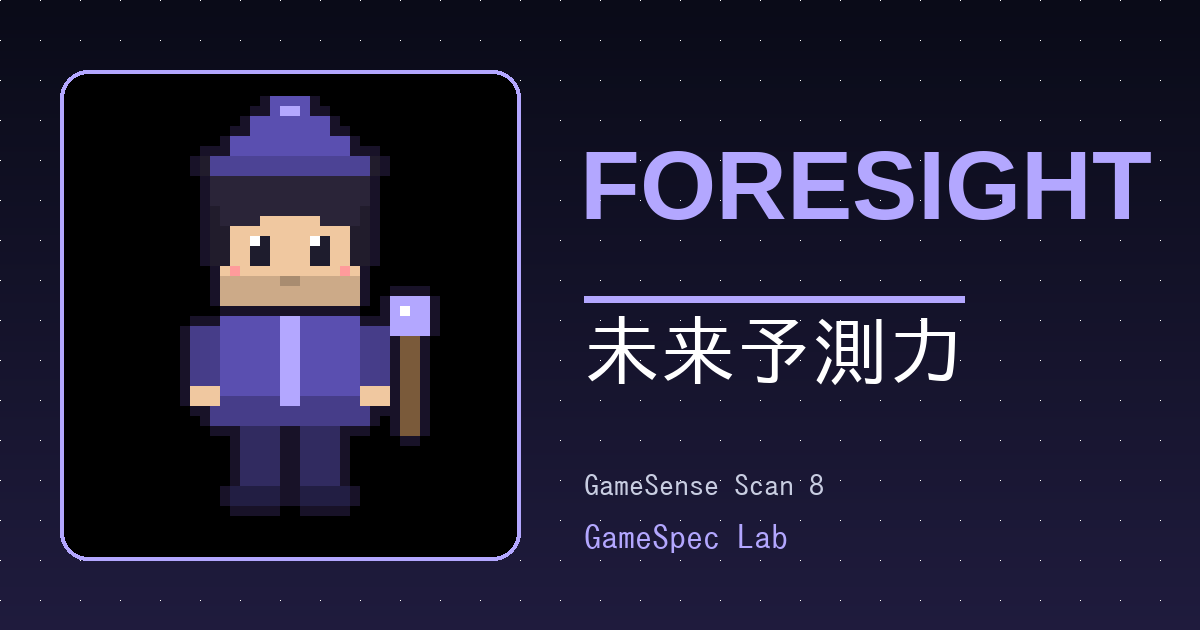
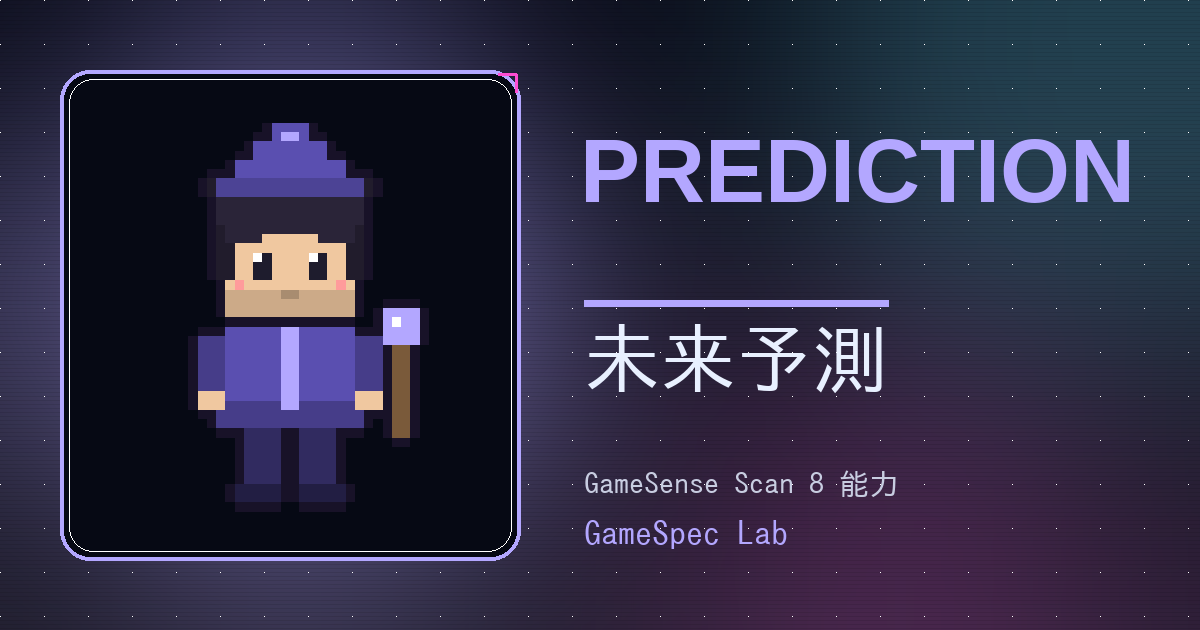
タイプ個別OGP24枚を新ネオンスタイルに刷新（シェアのリンク先プレビュー）
- gamer-mbti-*(16) と sense-*-guide(8) のOGPを、記事OGPと同じネオングロー＋スキャンライン＋二重枠＋タイプ色スタイルで再生成
- 既存キャラPNGをそのまま使用、タイトル・アクセント色はHTMLから抽出（tools/build_type_ogp.py）
- OGP画像はクローラがURL取得するためHTML/キャッシュバスター変更なし

Claude-Session: https://claude.ai/code/session_015EHdJH3M1W72Rtdni8ff5H

diff --git a/tools/build_type_ogp.py b/tools/build_type_ogp.py
@@ -1,0 +1,169 @@
+#!/usr/bin/env python3
+# -*- coding: utf-8 -*-
+"""タイプ個別ページのOGPカード24枚を新スタイルで再生成.
+
+MBTI 16タイプ(gamer-mbti-*.html) と GameSense 8能力(sense-*-guide.html) の
+既存キャラPNG(assets/types/*.png)を使い、記事OGPと同じネオンスタイル
+(グロー＋スキャンライン＋二重枠＋タイプ色)で 1200x630 のOGPを生成する。
+タイトル・アクセント色は各HTMLから抽出。
+
+  python3 tools/build_type_ogp.py
+出力: assets/types/<slug>-ogp.png
+"""
+import glob
+import os
+import re
+
+from PIL import Image, ImageChops, ImageDraw, ImageFilter, ImageFont
+
+ROOT = os.path.dirname(os.path.dirname(os.path.abspath(__file__)))
+TYPES = os.path.join(ROOT, "assets", "types")
+JP_FONT = "/etc/alternatives/fonts-japanese-gothic.ttf"
+LATIN_FONT = "/usr/share/fonts/truetype/liberation/LiberationSans-Bold.ttf"
+
+CYAN = (114, 242, 255)
+PINK = (255, 77, 210)
+
+# GameSense 8能力（slug -> EN, JP, アクセント）
+SENSE = [
+    ("sense-awareness-guide", "AWARENESS", "状況認識", (127, 224, 240)),
+    ("sense-prediction-guide", "PREDICTION", "未来予測", (179, 167, 255)),
+    ("sense-pattern-guide", "PATTERN", "パターン認識", (127, 224, 196)),
+    ("sense-spatial-guide", "SPATIAL", "空間把握", (155, 192, 255)),
+    ("sense-speed-guide", "SPEED", "判断速度", (255, 210, 74)),
+    ("sense-resource-guide", "RESOURCE", "リソース管理", (255, 224, 122)),
+    ("sense-mindgame-guide", "MINDGAME", "心理戦", (255, 155, 214)),
+    ("sense-adaptation-guide", "ADAPTATION", "学習適応力", (167, 232, 176)),
+]
+
+
+def font(path, size):
+    try:
+        return ImageFont.truetype(path, size)
+    except Exception:
+        return ImageFont.load_default()
+
+
+def glow_layer(size, blobs):
+    layer = Image.new("RGB", size, (0, 0, 0))
+    d = ImageDraw.Draw(layer)
+    for cx, cy, r, color, strength in blobs:
+        col = tuple(int(c * strength) for c in color)
+        d.ellipse([cx - r, cy - r, cx + r, cy + r], fill=col)
+    return layer.filter(ImageFilter.GaussianBlur(115))
+
+
+def parse_mbti():
+    records = []
+    for path in sorted(glob.glob(os.path.join(ROOT, "gamer-mbti-????.html"))):
+        code = os.path.basename(path)[len("gamer-mbti-"):-len(".html")].upper()
+        if len(code) != 4:
+            continue
+        html = open(path, encoding="utf-8").read()
+        m_ac = re.search(r"--type-accent:\s*([0-9]+)\s+([0-9]+)\s+([0-9]+)", html)
+        m_h1 = re.search(r"<h1><span>([^<]+)</span>", html)
+        accent = tuple(int(m_ac.group(i)) for i in (1, 2, 3)) if m_ac else CYAN
+        title = m_h1.group(1) if m_h1 else code
+        jp = title[len(code):].strip() if title.upper().startswith(code) else title
+        records.append({
+            "slug": f"gamer-mbti-{code.lower()}",
+            "char": os.path.join(TYPES, f"{code.lower()}.png"),
+            "en": code,
+            "jp": jp,
+            "group": "ゲーマーMBTI 16タイプ",
+            "accent": accent,
+        })
+    return records
+
+
+def build(rec):
+    Wd, Hd = 1200, 630
+    base = (8, 10, 22)
+    ac = rec["accent"]
+    img = Image.new("RGB", (Wd, Hd), base)
+    for y in range(Hd):
+        f = y / Hd
+        img.paste(tuple(int(base[i] + (ac[i] * 0.16 - base[i]) * f) for i in range(3)),
+                  (0, y, Wd, y + 1))
+    img = ImageChops.add(img, glow_layer((Wd, Hd), [
+        (300, 300, 260, ac, 0.52),
+        (1040, 110, 250, CYAN, 0.22),
+        (900, 560, 240, PINK, 0.18),
+    ]))
+    # スキャンライン
+    scan = Image.new("RGBA", (Wd, Hd), (0, 0, 0, 0))
+    sd = ImageDraw.Draw(scan)
+    for y in range(0, Hd, 4):
+        sd.line([(0, y), (Wd, y)], fill=(0, 0, 0, 24))
+    img = Image.alpha_composite(img.convert("RGBA"), scan).convert("RGB")
+    d = ImageDraw.Draw(img)
+    # ドット格子
+    for gy in range(0, Hd, 44):
+        for gx in range(0, Wd, 44):
+            d.point((gx, gy), fill=(255, 255, 255))
+    # 左キャラパネル（二重枠＋ピンクのコーナー）
+    px1, py1, px2, py2 = 60, 70, 520, 560
+    d.rounded_rectangle([px1, py1, px2, py2], radius=30, fill=(6, 9, 20), outline=ac, width=4)
+    d.rounded_rectangle([px1 + 9, py1 + 9, px2 - 9, py2 - 9], radius=24,
+                        outline=(255, 255, 255), width=1)
+    d.line([(px2 - 22, py1 + 4), (px2 - 4, py1 + 4)], fill=PINK, width=3)
+    d.line([(px2 - 4, py1 + 4), (px2 - 4, py1 + 22)], fill=PINK, width=3)
+    # キャラ配置（下寄せ）
+    if os.path.exists(rec["char"]):
+        char = Image.open(rec["char"]).convert("RGBA")
+        maxw, maxh = px2 - px1 - 90, py2 - py1 - 70
+        sc = min(maxw / char.size[0], maxh / char.size[1])
+        cw, ch = int(char.size[0] * sc), int(char.size[1] * sc)
+        char = char.resize((cw, ch), Image.NEAREST)
+        cx = px1 + (px2 - px1 - cw) // 2
+        cy = py2 - ch - 30
+        img.paste(char, (cx, cy), char)
+    d = ImageDraw.Draw(img)
+
+    # 右テキスト
+    tx = 580
+    max_w = Wd - tx - 46
+    # EN（自動縮小）
+    size = 150
+    while size > 40:
+        f_en = font(LATIN_FONT, size)
+        if d.textlength(rec["en"], font=f_en) <= max_w:
+            break
+        size -= 6
+    d.text((tx, 120), rec["en"], font=f_en, fill=ac)
+    # JP（下線＋白）
+    size = 76
+    while size > 34:
+        f_jp = font(JP_FONT, size)
+        if d.textlength(rec["jp"], font=f_jp) <= max_w:
+            break
+        size -= 4
+    jw = d.textlength(rec["jp"], font=f_jp)
+    d.rectangle([tx + 4, 300, tx + 4 + jw, 306], fill=ac)
+    d.text((tx + 4, 320), rec["jp"], font=f_jp, fill=(232, 240, 255))
+    # グループ＋ブランド
+    d.text((tx + 4, 468), rec["group"], font=font(JP_FONT, 30), fill=(200, 205, 225))
+    d.text((tx + 4, 516), "GameSpec Lab", font=font(JP_FONT, 34), fill=ac)
+
+    img.save(os.path.join(TYPES, f"{rec['slug']}-ogp.png"))
+
+
+def main():
+    records = parse_mbti()
+    for slug, en, jp, ac in SENSE:
+        records.append({
+            "slug": slug,
+            "char": os.path.join(TYPES, f"{slug}.png"),
+            "en": en,
+            "jp": jp,
+            "group": "GameSense Scan 8 能力",
+            "accent": ac,
+        })
+    for rec in records:
+        build(rec)
+        print("ogp:", rec["slug"])
+    print(f"total: {len(records)}")
+
+
+if __name__ == "__main__":
+    main()
